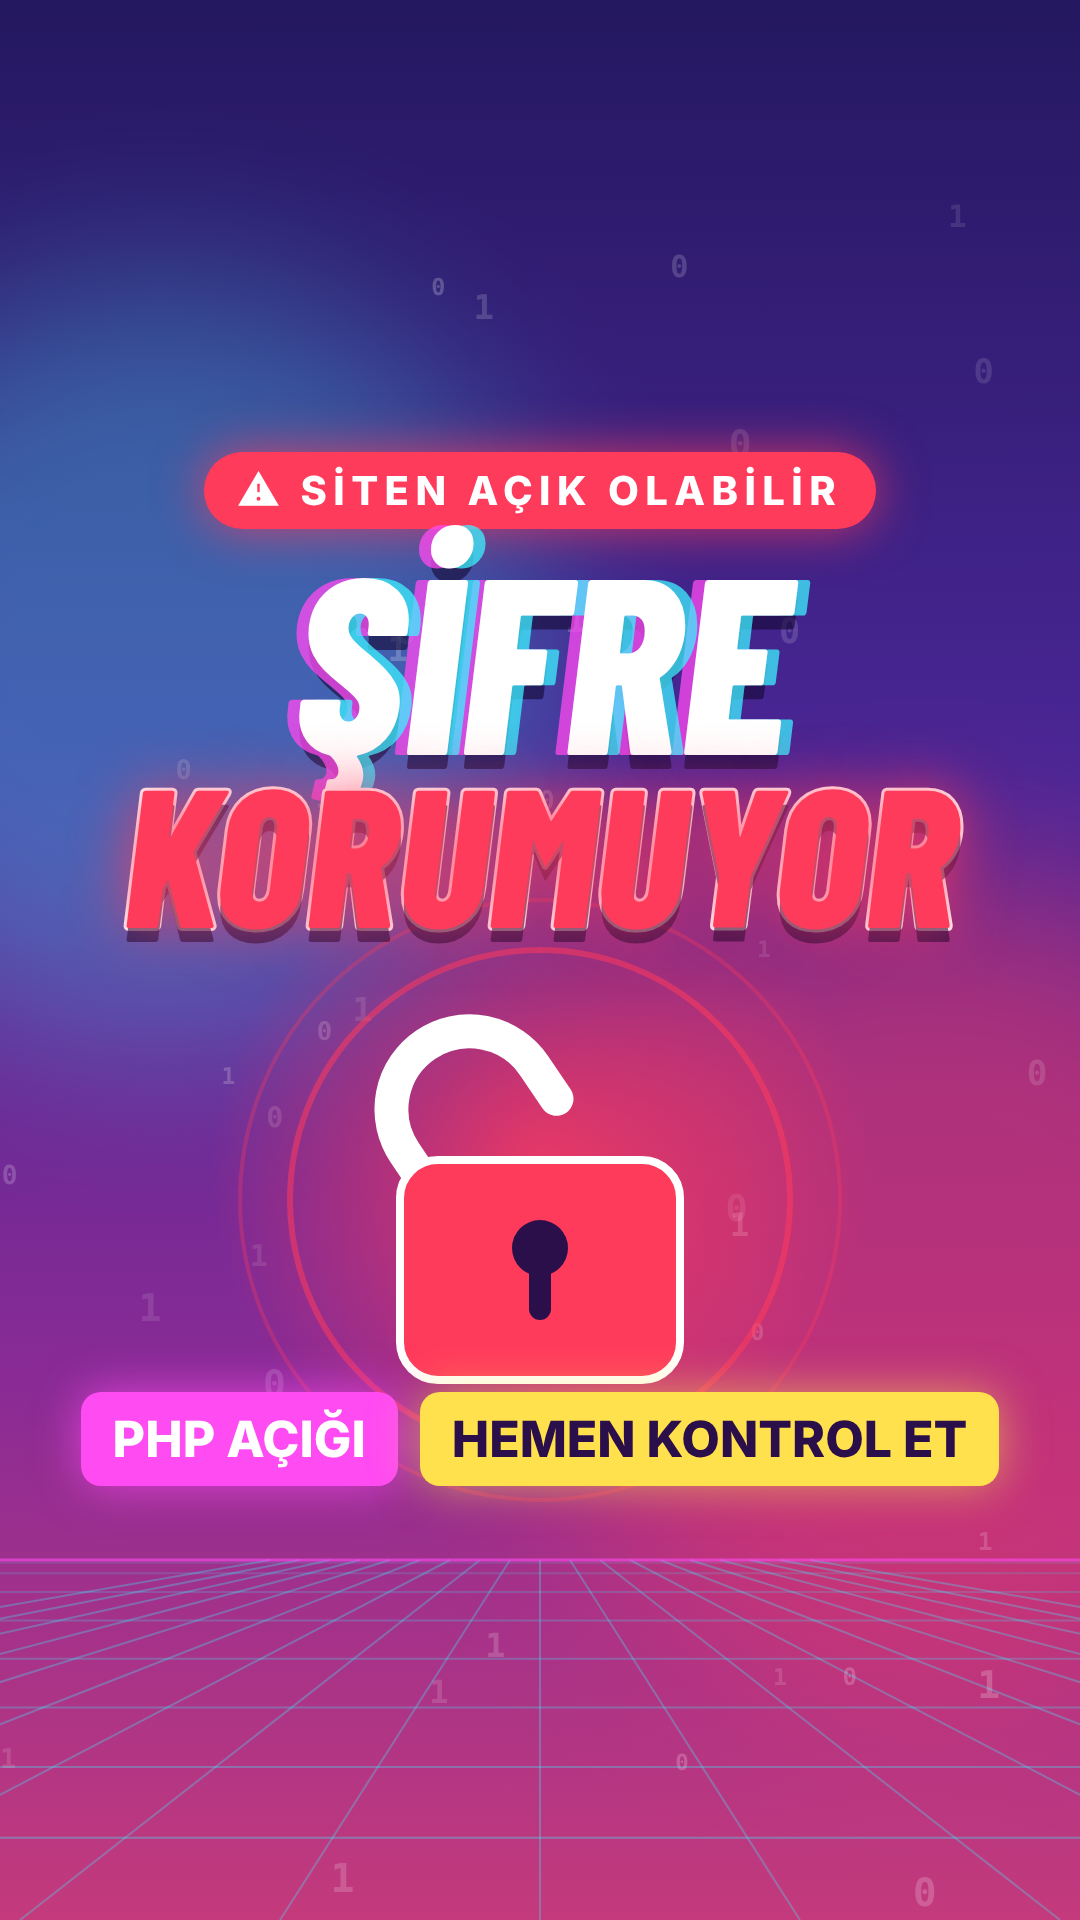
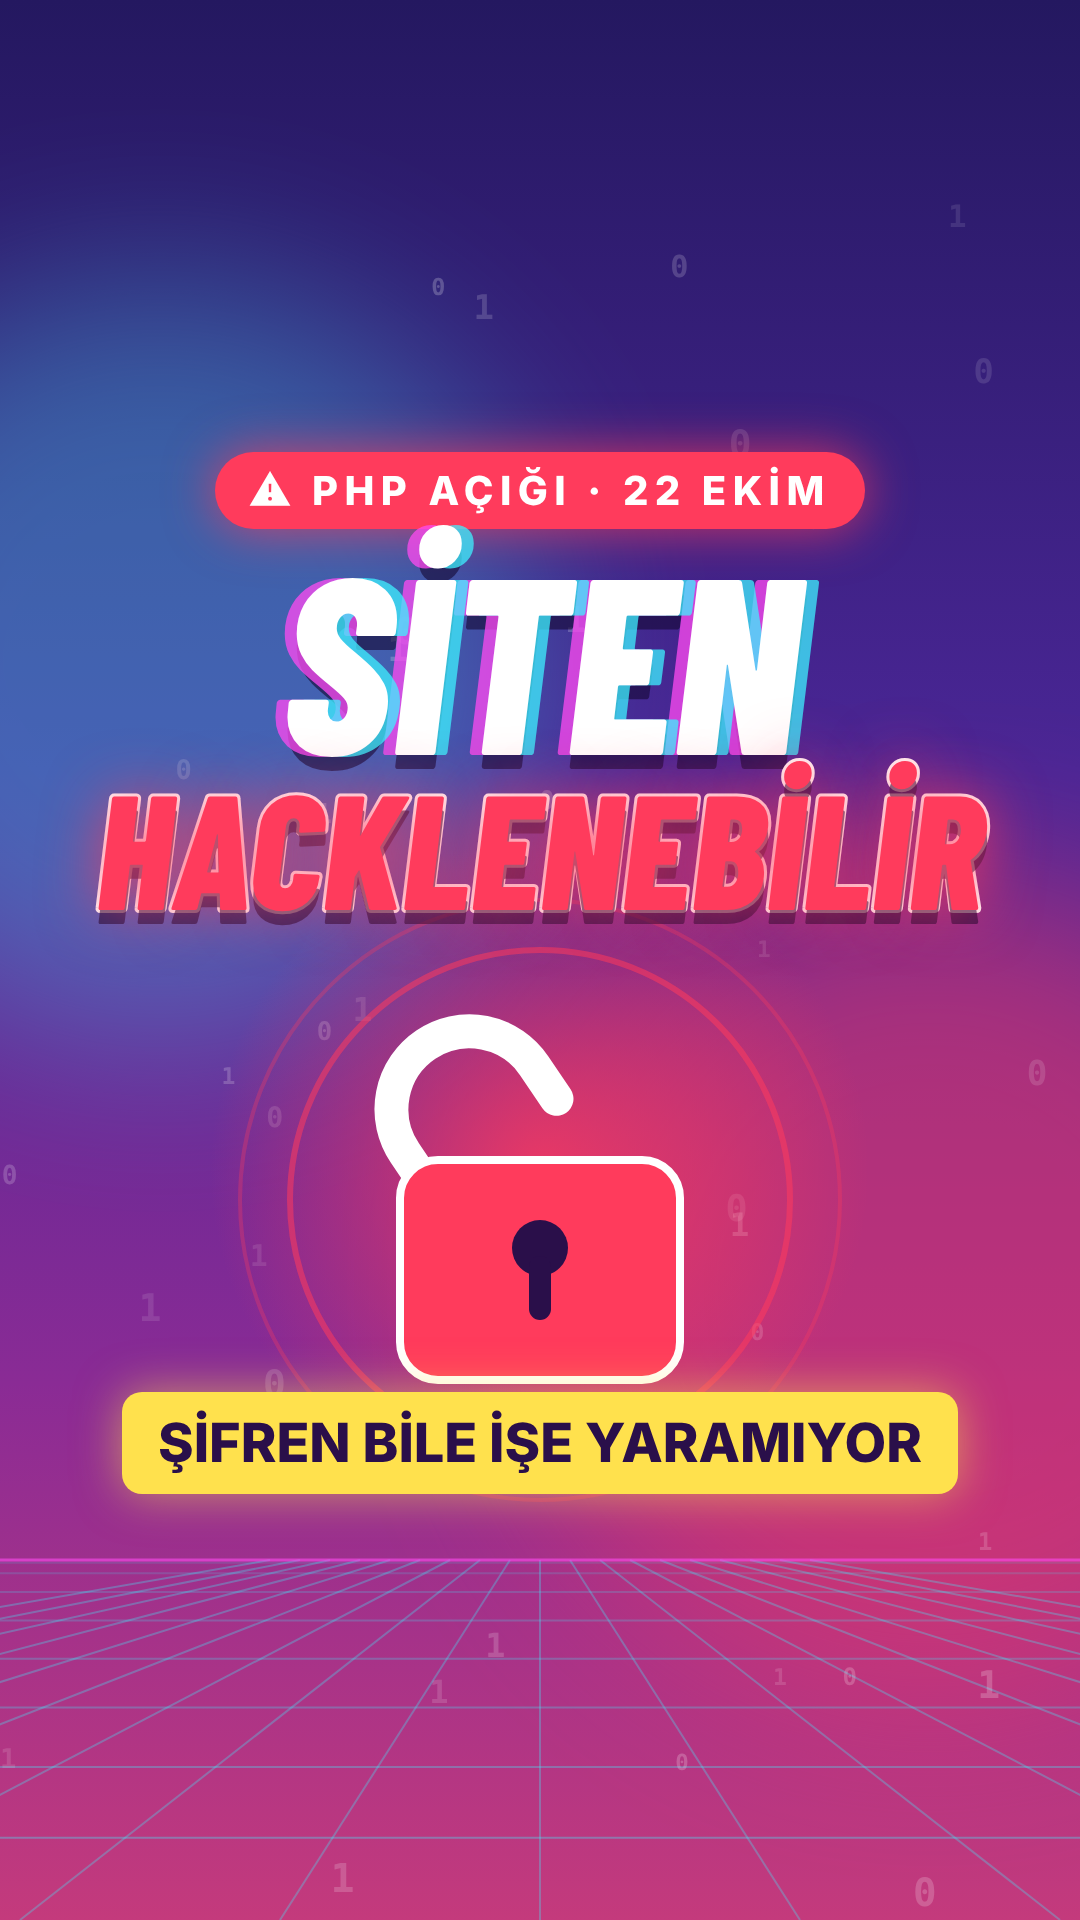
php-saldiri: kapak metni ilk bakışta anlaşılır: Siten hacklenebilir
Claude-Session: https://claude.ai/code/session_01XviSLGVaMyC7hLvGM2MRhR

Changed region(s): [[0.0611, 0.2188, 0.9167, 0.5], [0.0611, 0.7188, 0.9472, 0.8125]]

diff --git a/php-saldiri/cover.html b/php-saldiri/cover.html
@@ -17,10 +17,10 @@
                background: #ff3b5c; box-shadow: 0 0 50px rgba(255,59,92,.75); }
   .t1 { position: absolute; left: 0; right: 0; top: 548px; text-align: center; font: italic 800 250px/.86 'Barlow Condensed', sans-serif; color: #fff;
         text-shadow: 12px 0 0 rgba(62,240,255,.75), -12px 0 0 rgba(255,75,242,.75), 0 14px 0 rgba(20,6,50,.6); }
-  .t2 { position: absolute; left: 0; right: 0; top: 766px; text-align: center; font: italic 800 196px/.86 'Barlow Condensed', sans-serif; color: #ff3b5c;
+  .t2 { position: absolute; left: 0; right: 0; top: 776px; text-align: center; font: italic 800 162px/.86 'Barlow Condensed', sans-serif; color: #ff3b5c;
         -webkit-text-stroke: 6px #fff; paint-order: stroke fill; text-shadow: 0 0 60px rgba(255,59,92,.9), 0 14px 0 rgba(20,6,50,.6); }
   .bot { position: absolute; left: 0; right: 0; top: 1392px; display: flex; justify-content: center; gap: 22px; }
-  .bot span { font: 800 50px/1 'Inter', sans-serif; padding: 22px 32px; border-radius: 20px; }
+  .bot span { font: 800 54px/1 'Inter', sans-serif; padding: 24px 36px; border-radius: 20px; }
   .bot .m { background: #ff4bf2; color: #fff; box-shadow: 0 0 46px rgba(255,75,242,.7); }
   .bot .y { background: #ffe14d; color: #2a0f4a; box-shadow: 0 0 46px rgba(255,225,77,.55); }
 </style>
@@ -46,10 +46,10 @@
     <!-- çizilmiş şifre alanı -->
     <g transform="translate(540 1006)" opacity=".0"></g>
   </svg>
-  <div class="chip"><span>⚠ SİTEN AÇIK OLABİLİR</span></div>
-  <div class="t1">ŞİFRE</div>
-  <div class="t2">KORUMUYOR</div>
-  <div class="bot"><span class="m">PHP AÇIĞI</span><span class="y">HEMEN KONTROL ET</span></div>
+  <div class="chip"><span>⚠ PHP AÇIĞI · 22 EKİM</span></div>
+  <div class="t1">SİTEN</div>
+  <div class="t2">HACKLENEBİLİR</div>
+  <div class="bot"><span class="y">ŞİFREN BİLE İŞE YARAMIYOR</span></div>
 </div>
 <script>
 (async () => {
